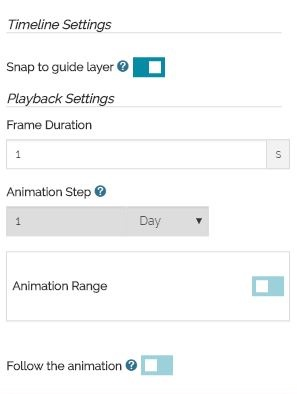
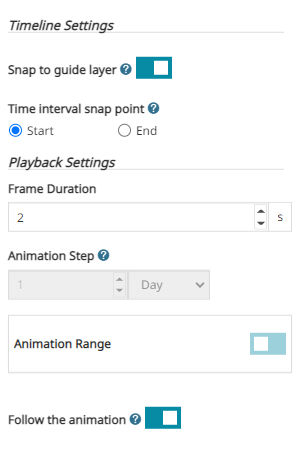
Time interval snap point

diff --git a/docs/user-guide/timeline.md b/docs/user-guide/timeline.md
@@ -84,7 +84,16 @@ The animation behavior can be customized through the **Settings** button <img sr
 
 <img src="../img/timeline/timeline-animation-settings.jpg" class="ms-docimage"  style="max-width:500px;" />
 
-By default, the **Snap to guide layer** is enabled. It allows to force the time cursor to snap to the selected layer's data. The user can disable *Snap to guide level* to select the preferred time step through the **Animation Step** option. For example, the process could be similar to the following one: 
+
+By default, the **Snap to guide layer** is enabled. It allows to force the time cursor to snap to the selected layer's data. 
+
+<img src="../img/timeline/snap-to-guide-layer.jpg" class="ms-docimage"/>
+
+If the animation is done with a *time interval layer*, this means that the time dimension of each individual feature will be handled as a time range, the user can choose the **Time interval snap point** from the options `Start` or `End`. An example of snapping from the `End` point for a *time interval layer* could be the following:
+
+<img src="../img/timeline/time-interval-snap-point.gif" class="ms-docimage"/>
+
+The user can disable *Snap to guide layer* to select the preferred time step through the **Animation Step** option. For example, the process could be similar to the following one: 
 
 <img src="../img/timeline/animation-passage.jpg" class="ms-docimage"/>
 
